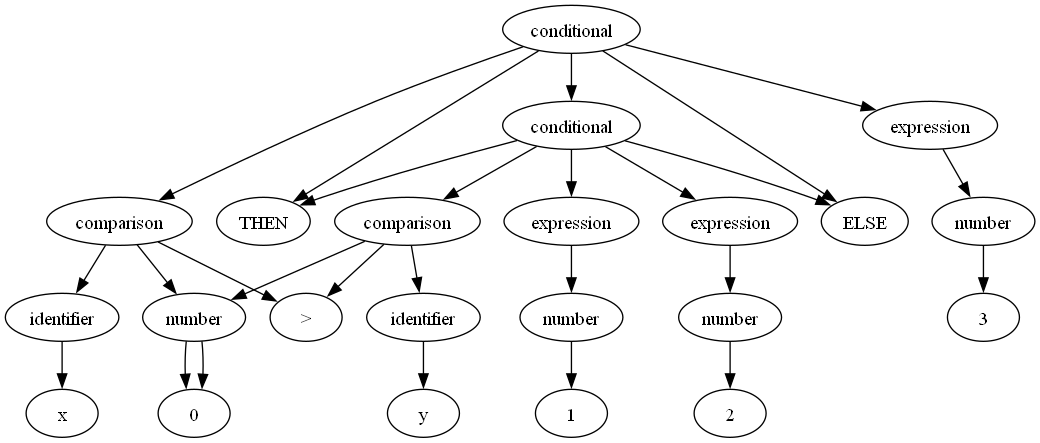
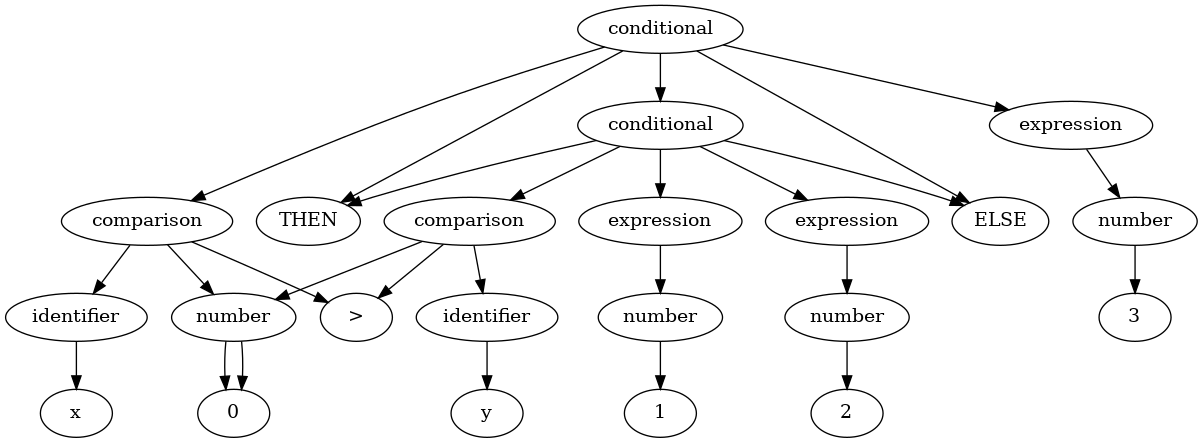
Add GUI

diff --git a/GUI.py b/GUI.py
@@ -1,0 +1,108 @@
+from kivy.app import App
+from kivy.lang import Builder
+from interpreter import interpret
+from graphviz import Digraph
+import os
+from interpreter import read_file
+from GrammarLexer import GrammarLexer
+from GrammarParser import GrammarParser
+from GrammarVisitor import GrammarVisitor
+from antlr4 import *
+from utils import nested_list_to_tuple
+def create_parser_tree(tree, name):
+    dot = Digraph(name)
+    add_nodes(dot, tree)
+    return dot
+
+def add_nodes(dot, tree, parent=None):
+    node_id = str(id(tree))
+    label = tree[0]
+    dot.node(node_id, label)
+    if parent:
+        dot.edge(str(id(parent)), node_id)
+    for child in tree[1:]:
+        if isinstance(child, tuple):
+            add_nodes(dot, child, tree)
+        else:
+            dot.node(str(id(child)), str(child))
+            dot.edge(node_id, str(id(child)))
+
+class TreeToNestedListVisitor(GrammarVisitor):
+    def visitChildren(self, node):
+        result = [node.__class__.__name__]
+        for child in node.getChildren():
+            result.append(self.visit(child))
+        return result
+
+    def visitTerminal(self, node):
+        return node.getText()
+
+def main():
+    output_dir = "output"
+    os.makedirs(output_dir, exist_ok=True)
+
+    example_tree_1 = ("expression", ("operation", ("number", "5"), "+", ("operation", ("number", "3"), "*", ("number", "2"))))
+    example_tree_2 = ("conditional", ("comparison", ("identifier", "x"), ">", ("number", "0")), "THEN", ("identifier", "positive_value"), "ELSE", ("identifier", "negative_value"))
+    example_tree_3 = ("function_call", ("function_name", "sum"), "(", ("argument", ("number", "10")), ",", ("argument", ("number", "20")), ")")
+    example_tree_4 = ("function_call", ("function_name", "fibonacci"), "(", ("argument", ("number", "5")), ")")
+    example_tree_5 = ("loop", "FOR", ("identifier", "i"), "IN", ("range", ("number", "10")), "DO", ("statement", ("expression", ("operation", ("identifier", "total"), "+", ("identifier", "i")))))
+    example_tree_6 = ("conditional", ("comparison", ("identifier", "x"), ">", ("number", "0")), "THEN", ("conditional", ("comparison", ("identifier", "y"), ">", ("number", "0")), "THEN", ("expression", ("number", "1")), "ELSE", ("expression", ("number", "2"))), "ELSE", ("expression", ("number", "3")))
+
+    examples = [example_tree_1, example_tree_2, example_tree_3, example_tree_4, example_tree_5, example_tree_6]
+
+    for i, example_tree in enumerate(examples, 1):
+        dot = create_parser_tree(example_tree, f"example_{i}")
+        output_path = os.path.join(output_dir, f"parser_tree_example_{i}.png")
+        dot.render(output_path, format="png", cleanup=True)
+
+def generateTree(code: str):
+    tree_list = nested_list_to_tuple(parse_code_to_nested_list(code))
+    dot = create_parser_tree(tree_list, "what")
+    dot.render('what', format='png', cleanup=True)
+
+def parse_code_to_nested_list(code: str):
+    lexer = GrammarLexer(InputStream(code))
+    token_stream = CommonTokenStream(lexer)
+    parser = GrammarParser(token_stream)
+
+    # Parse the input to get the parse tree
+    parse_tree = parser.program()  # Assuming 'program' is the start rule in Matlab.g4
+
+    # Use the visitor to convert the parse tree to a nested list
+    visitor = TreeToNestedListVisitor()
+    nested_list = visitor.visit(parse_tree)
+
+    return nested_list
+
+
+
+
+class MatlabInterpreterApp(App):
+    def build(self):
+        return Builder.load_file('matlab_interpreter.kv')
+
+    def interpret_code(self):
+        # Retrieve the input code from the TextInput
+        code_input = self.root.ids.code_input.text
+
+        # Call the interpret function and get the result
+        try:
+            output = self.interprete(code_input)
+            generateTree(code_input)
+        except Exception as e:
+            output = str(e)
+
+        # Set the output to the output_display TextInput
+        self.root.ids.output_display.text = output
+
+    def interprete(self, code: str) -> str:
+        # This is a placeholder for the actual interpret function
+        # Here you would call your existing MATLAB interpreter logic
+        try:
+            return interpret(code)
+        except Exception as e:
+            return f"Error: {str(e)}"
+
+
+
+

diff --git a/main.py b/main.py
@@ -1,78 +1,8 @@
-from graphviz import Digraph
-import os
-from interpreter import read_file
-from GrammarLexer import GrammarLexer
-from GrammarParser import GrammarParser
-from GrammarVisitor import GrammarVisitor
-from antlr4 import *
-from utils import nested_list_to_tuple
+from GUI import MatlabInterpreterApp
 
-def create_parser_tree(tree, name):
-    dot = Digraph(name)
-    add_nodes(dot, tree)
-    return dot
-
-def add_nodes(dot, tree, parent=None):
-    node_id = str(id(tree))
-    label = tree[0]
-    dot.node(node_id, label)
-    if parent:
-        dot.edge(str(id(parent)), node_id)
-    for child in tree[1:]:
-        if isinstance(child, tuple):
-            add_nodes(dot, child, tree)
-        else:
-            dot.node(str(id(child)), str(child))
-            dot.edge(node_id, str(id(child)))
-
-class TreeToNestedListVisitor(GrammarVisitor):
-    def visitChildren(self, node):
-        result = [node.__class__.__name__]
-        for child in node.getChildren():
-            result.append(self.visit(child))
-        return result
-
-    def visitTerminal(self, node):
-        return node.getText()
-
-def main():
-    output_dir = "output"
-    os.makedirs(output_dir, exist_ok=True)
-
-    example_tree_1 = ("expression", ("operation", ("number", "5"), "+", ("operation", ("number", "3"), "*", ("number", "2"))))
-    example_tree_2 = ("conditional", ("comparison", ("identifier", "x"), ">", ("number", "0")), "THEN", ("identifier", "positive_value"), "ELSE", ("identifier", "negative_value"))
-    example_tree_3 = ("function_call", ("function_name", "sum"), "(", ("argument", ("number", "10")), ",", ("argument", ("number", "20")), ")")
-    example_tree_4 = ("function_call", ("function_name", "fibonacci"), "(", ("argument", ("number", "5")), ")")
-    example_tree_5 = ("loop", "FOR", ("identifier", "i"), "IN", ("range", ("number", "10")), "DO", ("statement", ("expression", ("operation", ("identifier", "total"), "+", ("identifier", "i")))))
-    example_tree_6 = ("conditional", ("comparison", ("identifier", "x"), ">", ("number", "0")), "THEN", ("conditional", ("comparison", ("identifier", "y"), ">", ("number", "0")), "THEN", ("expression", ("number", "1")), "ELSE", ("expression", ("number", "2"))), "ELSE", ("expression", ("number", "3")))
-
-    examples = [example_tree_1, example_tree_2, example_tree_3, example_tree_4, example_tree_5, example_tree_6]
-
-    for i, example_tree in enumerate(examples, 1):
-        dot = create_parser_tree(example_tree, f"example_{i}")
-        output_path = os.path.join(output_dir, f"parser_tree_example_{i}.png")
-        dot.render(output_path, format="png", cleanup=True)
-
-def generateTree(code: str):
-    tree_list = nested_list_to_tuple(parse_code_to_nested_list(code))
-    dot = create_parser_tree(tree_list, "what")
-    dot.render('what', format='png', cleanup=True)
-
-def parse_code_to_nested_list(code: str):
-    lexer = GrammarLexer(InputStream(code))
-    token_stream = CommonTokenStream(lexer)
-    parser = GrammarParser(token_stream)
-
-    # Parse the input to get the parse tree
-    parse_tree = parser.program()  # Assuming 'program' is the start rule in Matlab.g4
-
-    # Use the visitor to convert the parse tree to a nested list
-    visitor = TreeToNestedListVisitor()
-    nested_list = visitor.visit(parse_tree)
-
-    return nested_list
 
 if __name__ == "__main__":
-    main()
-    generateTree(read_file('test_examples/vec.txt'))
+    #main()
+    #generateTree(read_file('test_examples/vec.txt'))
+    MatlabInterpreterApp().run()
 

diff --git a/interpreter.py b/interpreter.py
@@ -31,7 +31,6 @@ def print_tree(node, indent=0):
             print_tree(child, indent + 2)
 
 def read_file(input_file: str='test_examples/example2.txt'):
-    r = ''
     with open(input_file, 'r') as f:
         r = f.read()
     return r
@@ -46,10 +45,12 @@ def interpret(code: str) -> str:
     interpreter.visit(tree)
     out = interpreter.output
     if interpreter.error_message:
-        out += f'Error encountered: {interpreter.error_message}'
+        out = f'Error encountered: {interpreter.error_message}'
     return out
 
-print(interpret(read_file('test_examples/vec.txt')))
+print(interpret('''ex := 2 - 1
+print(ex)
+'''))
 
 # def parse_file_to_nested_list(input_file='simple_example.txt'):
 #     with open(input_file, 'r') as f:
